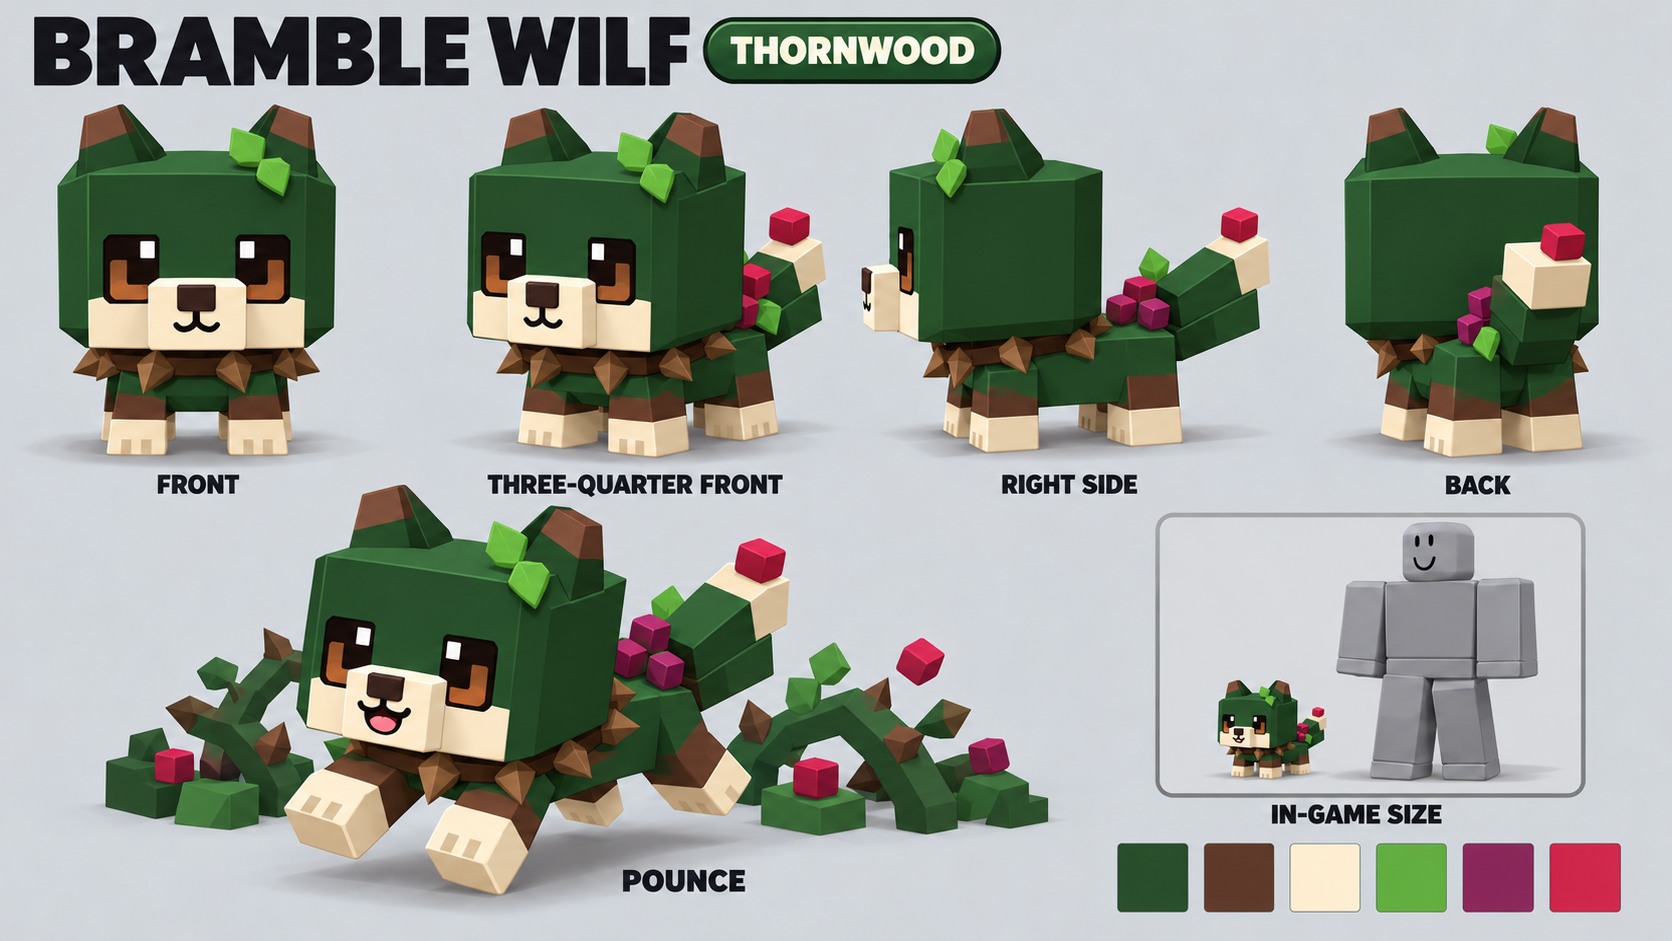
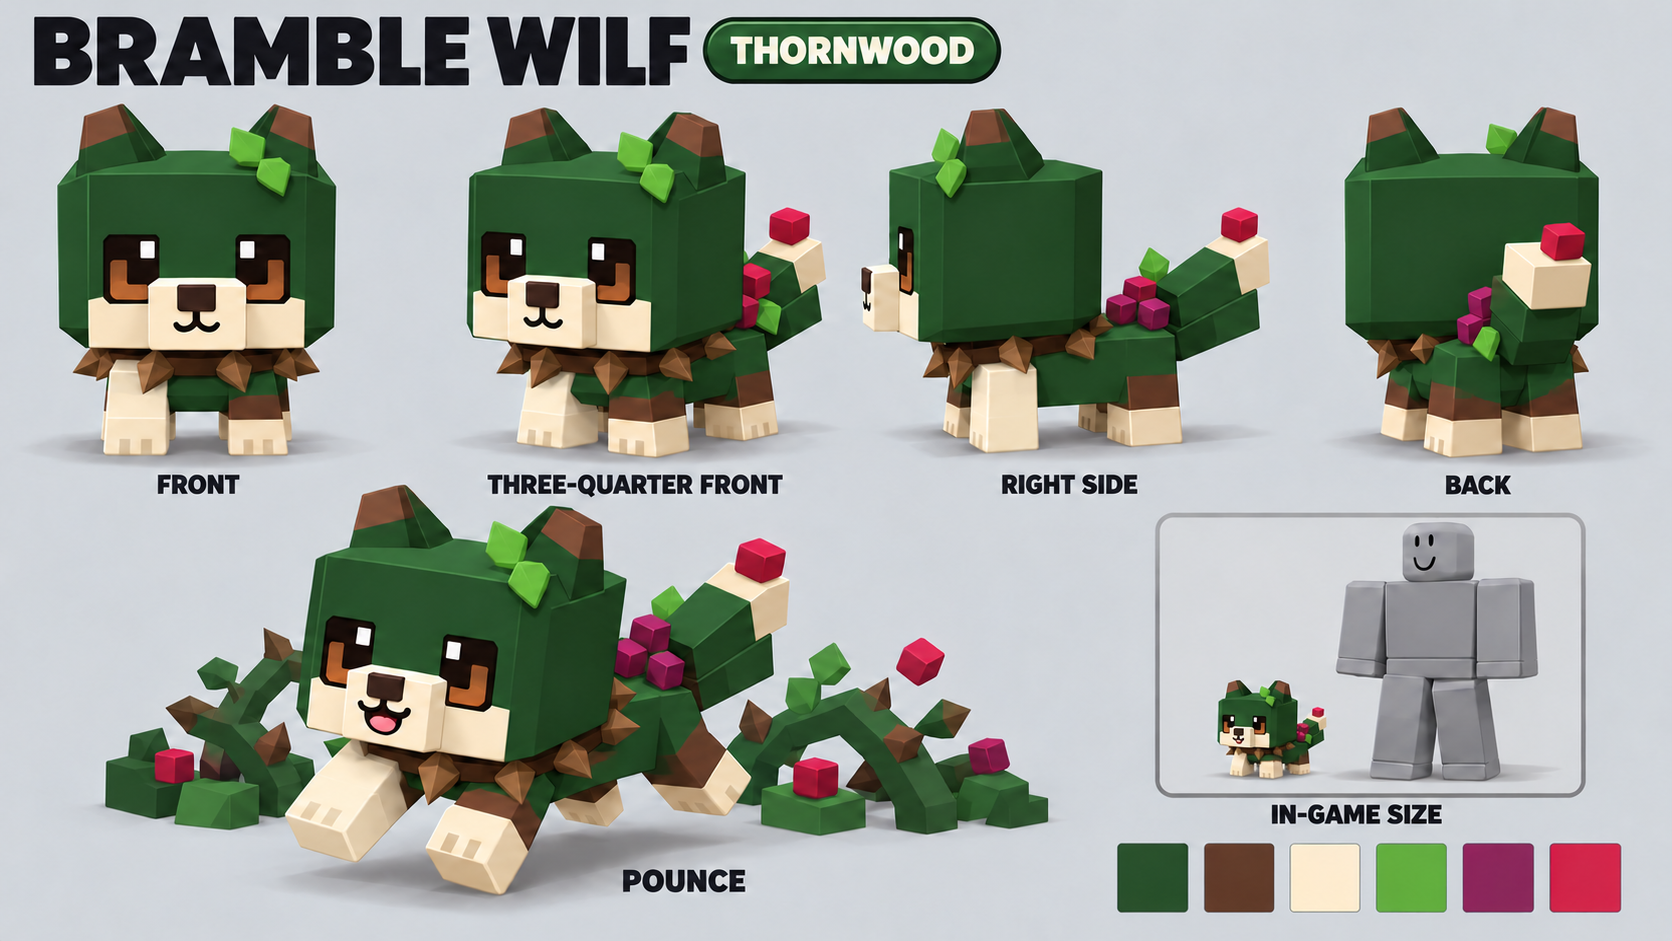
Every Wilf has a long sock on its front right leg
The owner's marking for every Wilf model: the front right leg (the Wilf's
own right) is the light paw colour from the foot up to the body; the front
left has only a short paw. All ten Wilf sheets are redrawn with it by Codex
(nothing else changed), the forest set's Ember Wilf sheet and both contact
sheets follow, and docs/PETS-WILFS.md records it as the family marking.

diff --git a/docs/PETS-WILFS.md b/docs/PETS-WILFS.md
@@ -19,6 +19,12 @@ share one model and one rig with a recoloured mesh and swapped accessories.
 Style as in `PETS-FOREST.md`: blocky, after Pet Simulator and Steal an Egg,
 copying nothing from them.
 
+**The Wilf marking** (owner, 2026-10-23): every Wilf model has a long sock
+on its **front right leg** (the Wilf's own right; +X, since models face
+−Z), running in its light paw colour from the foot up to the body. The
+front left leg has only a short paw at the foot. This applies to every Wilf
+model, pet or enemy.
+
 Concept sheets (Codex, 2026-10-23) are in `assets/concepts/pets/wilfs/`, one
 per Wilf (front, three-quarter, side, back, an action pose, in-game size,
 palette), and `contact_sheet.png` shows all ten.
